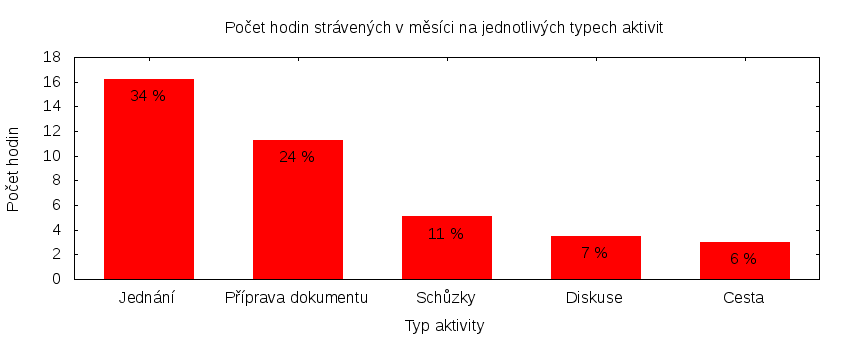
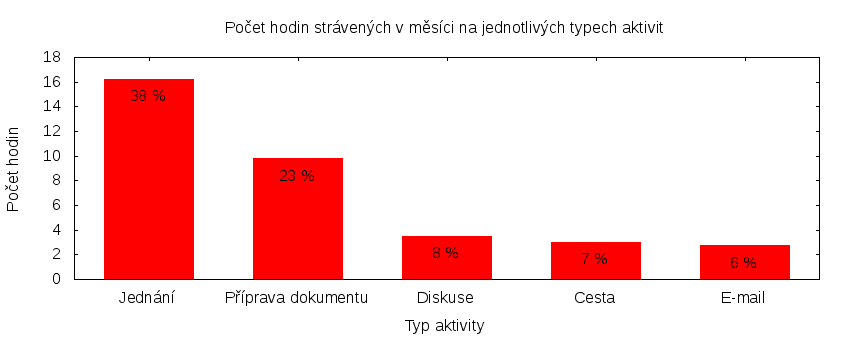
Odměny za 06

diff --git a/odmeny/2016/06/jakub-michalek/README.md b/odmeny/2016/06/jakub-michalek/README.md
@@ -19,14 +19,13 @@ Významné úkoly
 
 Následující seznam zahrnuje všechny úkoly z [projektu krajského sdružení Praha][kspraha], které zabraly déle než 3 hodiny. Zastupitel si může tento seznam doplnit či upravit podle své úvahy tak, aby podával co nejlepší informaci o odvedené práci.
 
-Číslo              |   Název úkolu                                   |  Celkem           
--------------------|-------------------------------------------------|------------------:
-[#3296][task3296]  |   Zasedání zastupitelstva 16. 6. 2016           |  [10.50][time3296]
-[#1763][task1763]  |   Teambuildingy                                 |  [8.50][time1763] 
-[#1996][task1996]  |   Přenášení zkušeností do strany                |  [6.31][time1996] 
-[#2590][task2590]  |   Jednání klubu 2016                            |  [6.25][time2590] 
-[#2630][task2630]  |   Informační strategie                          |  [3.50][time2630] 
-[#1522][task1522]  |   Zveřejnění technických norem ve stavebnictví  |  [3.33][time1522] 
+Číslo              |   Název úkolu                          |  Celkem           
+-------------------|----------------------------------------|------------------:
+[#3296][task3296]  |   Zasedání zastupitelstva 16. 6. 2016  |  [10.50][time3296]
+[#1763][task1763]  |   Teambuildingy                        |  [8.50][time1763] 
+[#1996][task1996]  |   Přenášení zkušeností do strany       |  [6.31][time1996] 
+[#2590][task2590]  |   Jednání klubu 2016                   |  [6.25][time2590] 
+[#2630][task2630]  |   Informační strategie                 |  [3.50][time2630] 
 
 Můžete si zobrazit plný [přehled plněných úkolů][tasklist].
 
@@ -40,13 +39,13 @@ přihlášení zobrazí v projektovém systému.
 Rozsah činnosti                        | Počet hodin
 --------------                         | ----------:
 **A. Práce pro město**                 | [10.00][linktocityhours]
-**B. Práce pro stranu**                | 44.29
+**B. Práce pro stranu**                | 47.04
 *z toho*                               |
-B.1 v projektu zastupitelstva          | [29.04][linktohomehours]
-B.2 v ostatních projektech             | [15.25][linktootherhours]
-**Celkový počet hodin**                | 54.29
+B.1 v projektu zastupitelstva          | [24.21][linktohomehours]
+B.2 v ostatních projektech             | [22.83][linktootherhours]
+**Celkový počet hodin**                | 57.04
 Dohodnutý rozsah práce                 | 132.00
-**Procento vytížení**                  | 41
+**Procento vytížení**                  | 43
 
 Grafické znázornění [odpracované doby dle aktivity][activitylist]:
 
@@ -66,16 +65,16 @@ Zdroj příjmu                           | Výše příjmu (Kč)
 *z toho*                               |
 A.1 paušální odměna                    | 5486
 A.2 náhrada výdělku                    | 4500
-**B. Peníze od strany**                | TMPPARTYMONEY
+**B. Peníze od strany**                | 3713
 *z toho*                               |
-B.1 pevná složka odměny                | 2852
-B.2 variabilní složka odměny           | TMPVARMONEY
+B.1 pevná složka odměny                | 3029
+B.2 variabilní složka odměny           | 684
 *z toho*                               |
-B.2.1 odměna za dodržení rozsahu práce | 168
+B.2.1 odměna za dodržení rozsahu práce | 184
 B.2.2 odměna za přesčasy               | 0
-B.2.3 odměna za významné splněné úkoly | TMPTASKSMONEY
-B.2.4 odpočet za výhrady               | TMPSANCTIONS
-**Celkový měsíční příjem**             | TMPTOTALMONEY
+B.2.3 odměna za významné splněné úkoly | 500
+B.2.4 odpočet za výhrady               | 0
+**Celkový měsíční příjem**             | 13699
 
 Částky jsou uváděny vždy v hrubé výši, přičemž z paušální odměny odvádí město zálohu na daň z příjmu a zdravotní pojištění. Je dále odpovědností každého zastupitele, aby příjem zdanil a zaplatil zákonné pojištění.
 
@@ -93,8 +92,6 @@ B.2.4 odpočet za výhrady               | TMPSANCTIONS
 [time2590]:https://redmine.pirati.cz/issues/2590/time_entries?f[]=spent_on&f[]=user_id&f[]=&op[spent_on]=><&op[user_id]==&op[spent_on]=><&op[user_id]==&utf8=✓&v[spent_on][]=2016-06-01&v[spent_on][]=2016-06-30&v[user_id][]=4
 [task2630]: https://redmine.pirati.cz/issues/2630
 [time2630]:https://redmine.pirati.cz/issues/2630/time_entries?f[]=spent_on&f[]=user_id&f[]=&op[spent_on]=><&op[user_id]==&op[spent_on]=><&op[user_id]==&utf8=✓&v[spent_on][]=2016-06-01&v[spent_on][]=2016-06-30&v[user_id][]=4
-[task1522]: https://redmine.pirati.cz/issues/1522
-[time1522]:https://redmine.pirati.cz/issues/1522/time_entries?f[]=spent_on&f[]=user_id&f[]=&op[spent_on]=><&op[user_id]==&op[spent_on]=><&op[user_id]==&utf8=✓&v[spent_on][]=2016-06-01&v[spent_on][]=2016-06-30&v[user_id][]=4
 [activitylist]: https://redmine.pirati.cz/projects/kspraha/time_entries/report?columns=month&criteria[]=activity&f[]=spent_on&f[]=user_id&f[]=&op[spent_on]=><&op[user_id]==&utf8=✓&v[spent_on][]=2016-06-01&v[spent_on][]=2016-06-30&v[user_id][]=4
 
 [smlouva]: https://smlouvy.pirati.cz/smlouvy/2014/11/13/jakub-michalek/index.html

diff --git a/odmeny/2016/06/README.md b/odmeny/2016/06/README.md
@@ -9,16 +9,16 @@ Výkazy odměňování za červen 2016
 =======================================
 
 
-jméno a příjmení          |  funkce                      |  domovský projekt                      |  právní postavení      
---------------------------|------------------------------|----------------------------------------|------------------------
-[Jakub Michálek][u4]      |  zastupitel hl. m. Prahy     |  [klub zastupitelů hl. m. Prahy][p15]  |  [zastupitel][c4]      
-[Ondřej Profant][u3]      |  zastupitel hl. m. Prahy     |  [klub zastupitelů hl. m. Prahy][p15]  |  [zastupitel][c3]      
-[Mikuláš Ferjenčík][u17]  |  zastupitel hl. m. Prahy     |  [klub zastupitelů hl. m. Prahy][p15]  |  [zastupitel][c17]     
-[Adam Zábranský][u16]     |  zastupitel hl. m. Prahy     |  [klub zastupitelů hl. m. Prahy][p15]  |  [zastupitel][c16]     
-[Michaela Krausová][u7]   |  koordinátorka dobrovolníků  |  [krajské sdružení Praha][p44]         |  [dodavatel strany][c7]
-[Jan Loužek][u46]         |  zveřejňovač klubu           |  [klub zastupitelů hl. m. Prahy][p15]  |                        
+jméno a příjmení          |  funkce                             |  domovský projekt                      |  právní postavení        
+--------------------------|-------------------------------------|----------------------------------------|--------------------------
+[Jakub Michálek][u4]      |  zastupitel hl. m. Prahy            |  [klub zastupitelů hl. m. Prahy][p15]  |  [zastupitel][c4]        
+[Ondřej Profant][u3]      |  zastupitel hl. m. Prahy            |  [klub zastupitelů hl. m. Prahy][p15]  |  [zastupitel][c3]        
+[Mikuláš Ferjenčík][u17]  |  zastupitel hl. m. Prahy            |  [klub zastupitelů hl. m. Prahy][p15]  |  [zastupitel][c17]       
+[Adam Zábranský][u16]     |  zastupitel hl. m. Prahy            |  [klub zastupitelů hl. m. Prahy][p15]  |  [zastupitel][c16]       
+
 
 [p15]: https://redmine.pirati.cz/project/15
+[p34]: https://redmine.pirati.cz/project/34
 [p44]: https://redmine.pirati.cz/project/44
 
 [u4]: jakub-michalek/
@@ -27,9 +27,11 @@ jméno a příjmení          |  funkce                      |  domovský projek
 [u16]: adam-zabransky/
 [u7]: michaela-krausova/
 [u46]: jan-louzek/
+[u164]: vit-simral/
 
 [c4]: https://smlouvy.pirati.cz/smlouvy/2014/11/13/jakub-michalek/index.html
 [c3]: https://smlouvy.pirati.cz/smlouvy/2014/11/13/ondrej-profant/index.html
 [c17]: https://smlouvy.pirati.cz/smlouvy/2014/11/13/mikulas-ferjencik/index.html
 [c16]: https://smlouvy.pirati.cz/smlouvy/2014/11/13/adam-zabransky/index.html
-[c7]: https://smlouvy.pirati.cz/smlouvy/2016/01/misa/index.html
+[c7]: https://smlouvy.pirati.cz/smlouvy/2016/01/04/koordinator-misa/
+[c164]: https://smlouvy.pirati.cz/smlouvy/2016/06/20/asistsenatmichalek/

diff --git a/odmeny/2016/06/mikulas-ferjencik/README.md b/odmeny/2016/06/mikulas-ferjencik/README.md
@@ -39,10 +39,10 @@ přihlášení zobrazí v projektovém systému.
 
 Rozsah činnosti                        | Počet hodin
 --------------                         | ----------:
-**A. Práce pro město**                 | [16.25][linktocityhours]
-**B. Práce pro stranu**                | 60.83
+**A. Práce pro město**                 | [20.25][linktocityhours]
+**B. Práce pro stranu**                | 56.83
 *z toho*                               |
-B.1 v projektu zastupitelstva          | [59.83][linktohomehours]
+B.1 v projektu zastupitelstva          | [55.83][linktohomehours]
 B.2 v ostatních projektech             | [1.00][linktootherhours]
 **Celkový počet hodin**                | 77.08
 Dohodnutý rozsah práce                 | 132.00
@@ -62,20 +62,20 @@ Zastupitel má na základě zákona právo na odměnu a náhradu výdělku. Vedl
 
 Zdroj příjmu                           | Výše příjmu (Kč)
 -----------------                      | --------------:
-**A. Peníze od města**                 | 12798
+**A. Peníze od města**                 | 14598
 *z toho*                               |
 A.1 paušální odměna                    | 5486
-A.2 náhrada výdělku                    | 7312
-**B. Peníze od strany**                | TMPPARTYMONEY
+A.2 náhrada výdělku                    | 9112
+**B. Peníze od strany**                | 5995
 *z toho*                               |
-B.1 pevná složka odměny                | 3917
-B.2 variabilní složka odměny           | TMPVARMONEY
+B.1 pevná složka odměny                | 3659
+B.2 variabilní složka odměny           | 2336
 *z toho*                               |
 B.2.1 odměna za dodržení rozsahu práce | 336
 B.2.2 odměna za přesčasy               | 0
-B.2.3 odměna za významné splněné úkoly | TMPTASKSMONEY
-B.2.4 odpočet za výhrady               | TMPSANCTIONS
-**Celkový měsíční příjem**             | TMPTOTALMONEY
+B.2.3 odměna za významné splněné úkoly | 2000
+B.2.4 odpočet za výhrady               | 0
+**Celkový měsíční příjem**             | 20593
 
 Částky jsou uváděny vždy v hrubé výši, přičemž z paušální odměny odvádí město zálohu na daň z příjmu a zdravotní pojištění. Je dále odpovědností každého zastupitele, aby příjem zdanil a zaplatil zákonné pojištění.
 

diff --git a/odmeny/2016/06/adam-zabransky/README.md b/odmeny/2016/06/adam-zabransky/README.md
@@ -38,13 +38,13 @@ přihlášení zobrazí v projektovém systému.
 Rozsah činnosti                        | Počet hodin
 --------------                         | ----------:
 **A. Práce pro město**                 | [17.50][linktocityhours]
-**B. Práce pro stranu**                | 28.95
+**B. Práce pro stranu**                | 28.25
 *z toho*                               |
-B.1 v projektu zastupitelstva          | [28.95][linktohomehours]
+B.1 v projektu zastupitelstva          | [28.25][linktohomehours]
 B.2 v ostatních projektech             | [0.00][linktootherhours]
-**Celkový počet hodin**                | 46.45
+**Celkový počet hodin**                | 45.75
 Dohodnutý rozsah práce                 | 132.00
-**Procento vytížení**                  | 35
+**Procento vytížení**                  | 34
 
 Grafické znázornění [odpracované doby dle aktivity][activitylist]:
 
@@ -64,16 +64,16 @@ Zdroj příjmu                           | Výše příjmu (Kč)
 *z toho*                               |
 A.1 paušální odměna                    | 5486
 A.2 náhrada výdělku                    | 7875
-**B. Peníze od strany**                | TMPPARTYMONEY
+**B. Peníze od strany**                | 2634
 *z toho*                               |
-B.1 pevná složka odměny                | 1864
-B.2 variabilní složka odměny           | TMPVARMONEY
+B.1 pevná složka odměny                | 1819
+B.2 variabilní složka odměny           | 815
 *z toho*                               |
-B.2.1 odměna za dodržení rozsahu práce | 122
+B.2.1 odměna za dodržení rozsahu práce | 115
 B.2.2 odměna za přesčasy               | 0
-B.2.3 odměna za významné splněné úkoly | TMPTASKSMONEY
-B.2.4 odpočet za výhrady               | TMPSANCTIONS
-**Celkový měsíční příjem**             | TMPTOTALMONEY
+B.2.3 odměna za významné splněné úkoly | 700
+B.2.4 odpočet za výhrady               | 0
+**Celkový měsíční příjem**             | 15995
 
 Částky jsou uváděny vždy v hrubé výši, přičemž z paušální odměny odvádí město zálohu na daň z příjmu a zdravotní pojištění. Je dále odpovědností každého zastupitele, aby příjem zdanil a zaplatil zákonné pojištění.
 

diff --git a/odmeny/2016/06/ondrej-profant/README.md b/odmeny/2016/06/ondrej-profant/README.md
@@ -71,16 +71,16 @@ Zdroj příjmu                           | Výše příjmu (Kč)
 *z toho*                               |
 A.1 paušální odměna                    | 5486
 A.2 náhrada výdělku                    | 14625
-**B. Peníze od strany**                | TMPPARTYMONEY
+**B. Peníze od strany**                | 9054
 *z toho*                               |
 B.1 pevná složka odměny                | 7054
-B.2 variabilní složka odměny           | TMPVARMONEY
+B.2 variabilní složka odměny           | 2000
 *z toho*                               |
 B.2.1 odměna za dodržení rozsahu práce | 1000
 B.2.2 odměna za přesčasy               | 0
-B.2.3 odměna za významné splněné úkoly | TMPTASKSMONEY
-B.2.4 odpočet za výhrady               | TMPSANCTIONS
-**Celkový měsíční příjem**             | TMPTOTALMONEY
+B.2.3 odměna za významné splněné úkoly | 1000
+B.2.4 odpočet za výhrady               | 0
+**Celkový měsíční příjem**             | 29165
 
 Částky jsou uváděny vždy v hrubé výši, přičemž z paušální odměny odvádí město zálohu na daň z příjmu a zdravotní pojištění. Je dále odpovědností každého zastupitele, aby příjem zdanil a zaplatil zákonné pojištění.
 
